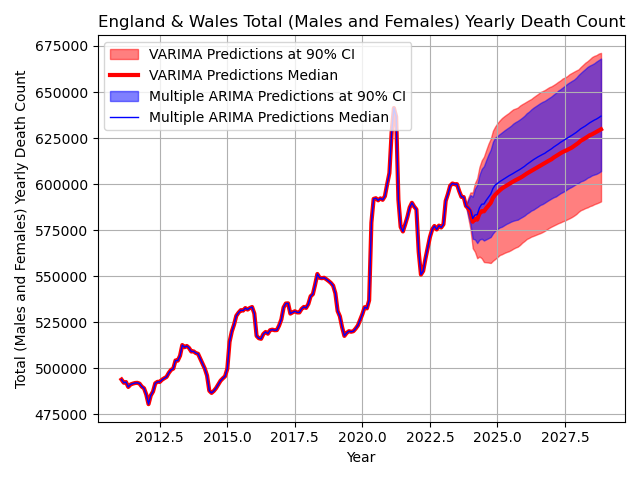
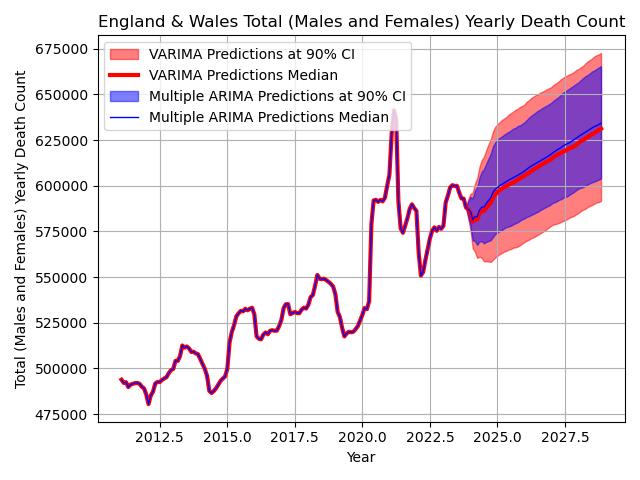
Suuport conversion of vector input tail parameters to the innovations distribution in VARIMA models (based on PR #3376 in Pyro).

diff --git a/ARIMA/examples/mortality.py b/ARIMA/examples/mortality.py
@@ -15,7 +15,9 @@ from ARIMA.examples import __name__ as __examples__name__
 from ARIMA.pyro_utils import render_model
 
 def create_model(obs_idx, n, num_predictions, observations,
-                 innovations=MultivariateNormalInnovations, model_args=(2, 0, 1, 0, 1, 1, 12)):
+                 innovations=MultivariateNormalInnovations,
+                 model_args=(2, 0, 1, 0, 1, 1, 12),
+                 model_kwargs=dict(i_tail_type='full')):
     # Create model with non-overlapping observed and predicted sample indices.
     predict_idx = [*range(max(obs_idx) + 1 + num_predictions)]
     predict_idx = [idx for idx in predict_idx if idx not in obs_idx]
@@ -23,7 +25,7 @@ def create_model(obs_idx, n, num_predictions, observations,
     mean_log = observations.log().mean()
     std_log = observations.log().std()
     output_transforms = [AffineTransform(loc=mean_log, scale=std_log), ExpTransform()]
-    return BayesianVARIMA(*model_args, drift=True, n=n,
+    return BayesianVARIMA(*model_args, **model_kwargs, drift=True, n=n,
                           obs_idx=obs_idx, predict_idx=predict_idx,
                           output_transforms=output_transforms, innovations=innovations)
 

diff --git a/ARIMA/BayesianTimeSeries.py b/ARIMA/BayesianTimeSeries.py
@@ -36,6 +36,13 @@ def BayesianVARIMA(*args, n, obs_idx, predict_idx, innovations=MultivariateNorma
     '''
     model = VARIMA([ARIMA(*args, **kwargs) for i in range(n)])
     innovations = innovations(n)
+    for n, arima in enumerate(model.arimas):
+        if isinstance(arima.i_tail, pt.nn.Parameter):
+            # Convert input tail parameter to the innovations distribution
+            tail_len = arima.i_tail.shape[-1]
+            delattr(arima, 'i_tail')
+            arima.i_tail = PyroSample(lambda self: model.i_tail[..., n])
+            model.i_tail = PyroSample(lambda self: innovations([*range(-tail_len, 0)]))
     # Create remaining model latent variables
     make_params_pyro(model)
     return BayesianTimeSeries(model, innovations, obs_idx, predict_idx)
